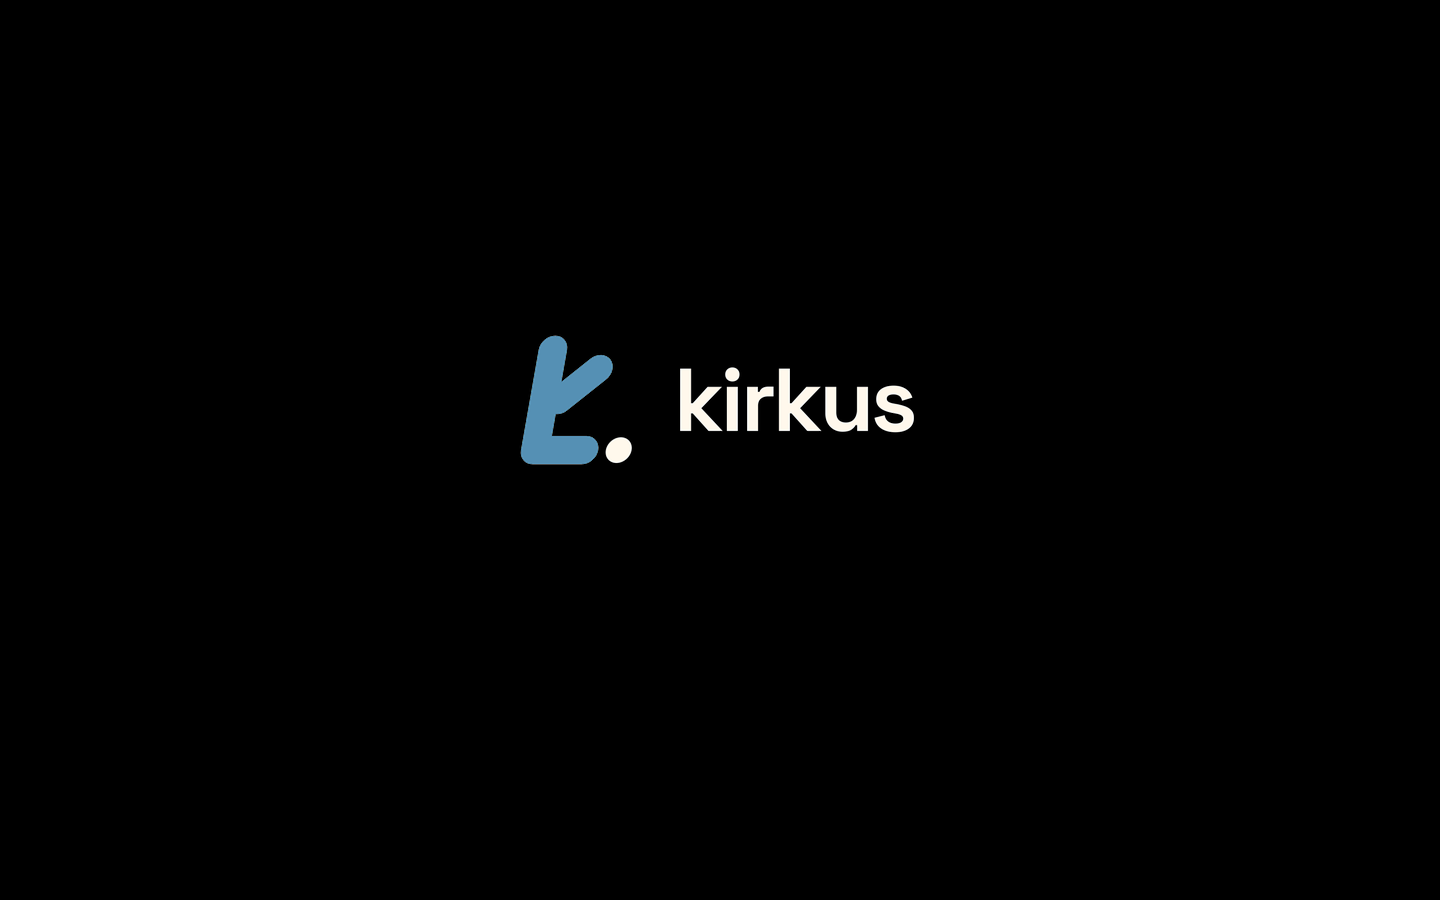
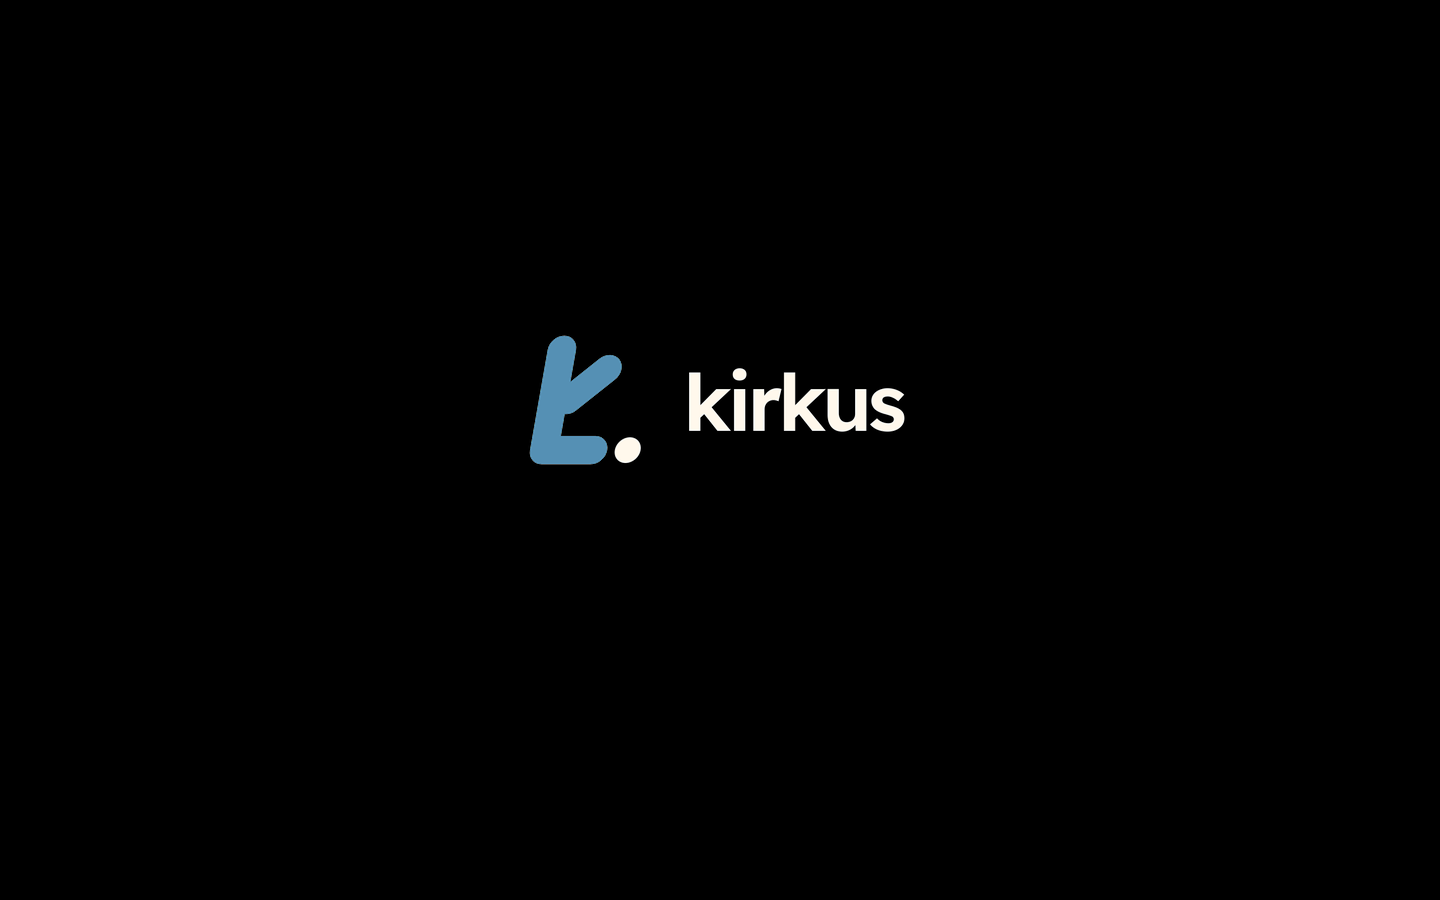
New wordmark: Lexend SemiBold
Regenerated the lockup for GRUB, the boot splash, the login screen, the
Plasma splash and the live USB. make-lockup.py now takes any font, weight
and spacing; the chosen settings are in branding/build/wordmark.txt.

Claude-Session: https://claude.ai/code/session_01L5eKN7UTBKTLGMDgDJHDBu

Changed region(s): [[0.4688, 0.4044, 0.6562, 0.4978], [0.3438, 0.3733, 0.4375, 0.5289]]

diff --git a/branding/tools/make-lockup.py b/branding/tools/make-lockup.py
@@ -1,21 +1,36 @@
 #!/usr/bin/env python3
 """Build the kirkus lockup (mark + "kirkus" wordmark) and its screen-size layers.
 
-usage: make-lockup.py SPACE_GROTESK_VARIABLE_TTF BRANDING_DIR
+usage: make-lockup.py FONT.ttf BRANDING_DIR [--weight W] [--track EM] [--height PX] [--max-width PX]
+                      [--out DIR]
 
-Takes the mark (the K and its dot) from branding/build/mark-src.png and dot-src.png, sets
-"kirkus" in Space Grotesk (wght 680, 208px, -8px tracking: the settings that reproduce the
-original "kirk" artwork), and writes:
-  build/lockup.png, build/lockup-nodot.png            full size, 308px tall
-  build/screen-lockup.png, screen-lockup-nodot.png,   132px tall, what every screen draws
-  build/screen-dot.png                                (dot layer is the same size as the lockup)
+Takes the mark (the K and its dot) from branding/build/mark-src.png and dot-src.png, sets "kirkus"
+in the given font and writes, to BRANDING_DIR/build (or --out):
+  lockup.png, lockup-nodot.png                      full size, 308px tall
+  screen-lockup.png, screen-lockup-nodot.png,       132px tall, what every screen draws
+  screen-dot.png                                    (dot layer is the same size as the lockup)
+
+--weight   for variable fonts (default 680)
+--track    letter spacing in em, negative is tighter (default -0.04)
+--height   height of the word's ink, ascender to baseline (default 148, as the original "kirk")
+--max-width  the word is scaled down to fit this width if needed (default 640)
 """
-import sys, os
+import sys, os, argparse
 import numpy as np
 from PIL import Image, ImageDraw, ImageFont
 
-font_path, root = sys.argv[1], sys.argv[2]
+ap = argparse.ArgumentParser()
+ap.add_argument("font"); ap.add_argument("root")
+ap.add_argument("--weight", type=float, default=680)
+ap.add_argument("--track", type=float, default=-0.04)
+ap.add_argument("--height", type=int, default=148)
+ap.add_argument("--max-width", type=int, default=640)
+ap.add_argument("--out")
+a = ap.parse_args()
+font_path, root = a.font, a.root
 b = os.path.join(root, "build")
+out = a.out or b
+os.makedirs(out, exist_ok=True)
 CREAM = (0xff, 0xf8, 0xec)
 H, SCREEN_H = 308, 132                     # 308 * 3/7 = 132
 GAP_X = 376                                # where the wordmark starts (as in the original)
@@ -24,19 +39,31 @@ mark = Image.open(os.path.join(b, "mark-src.png")).convert("RGBA")       # 330 x
 dot = Image.open(os.path.join(b, "dot-src.png")).convert("RGBA")
 dx, dy = (int(v) for v in open(os.path.join(b, "dot-offset.txt")).read().split())
 
-# ---- wordmark coverage, 4x supersampled ----
-S = 4
-f = ImageFont.truetype(font_path, 208 * S)
-f.set_variation_by_axes([680])
-cov = Image.new("L", (1400 * S, 400 * S))
-d = ImageDraw.Draw(cov)
-x = 20 * S
-for ch in "kirkus":
-    d.text((x, 20 * S), ch, font=f, fill=255)
-    x += f.getlength(ch) - 8 * S
-c = np.array(cov)
-ys, xs = np.nonzero(c > 0)
-c = c[ys.min():ys.max() + 1, xs.min():xs.max() + 1]
+S = 4                                      # 4x supersampling
+
+def ink(size):
+    """'kirkus' set at size (supersampled px); returns the cropped coverage array."""
+    f = ImageFont.truetype(font_path, int(size))
+    try:
+        axes = f.get_variation_axes()
+        f.set_variation_by_axes([min(max(a.weight, ax["minimum"]), ax["maximum"]) if i == 0
+                                 else ax["default"] for i, ax in enumerate(axes)])
+    except (OSError, AttributeError):
+        pass                               # not a variable font
+    cov = Image.new("L", (int(size * 9), int(size * 2)))
+    d = ImageDraw.Draw(cov)
+    x = size * 0.2
+    for ch in "kirkus":
+        d.text((x, size * 0.3), ch, font=f, fill=255)
+        x += f.getlength(ch) + a.track * size
+    c = np.array(cov)
+    ys, xs = np.nonzero(c > 0)
+    return c[ys.min():ys.max() + 1, xs.min():xs.max() + 1]
+
+# pick the size that gives the requested ink height, within the maximum width
+probe = ink(200 * S)
+scale = min(a.height * S / probe.shape[0], a.max_width * S / probe.shape[1])
+c = ink(200 * S * scale)
 tw, th = (c.shape[1] + S - 1) // S, (c.shape[0] + S - 1) // S
 pad = np.zeros((th * S, tw * S), np.uint8)
 pad[:c.shape[0], :c.shape[1]] = c
@@ -79,9 +106,9 @@ def shrink(im):
 
 full, nodot = canvas(True), canvas(False)
 dotonly = canvas(True, with_word=False, with_mark=False)
-full.save(os.path.join(b, "lockup.png"))
-nodot.save(os.path.join(b, "lockup-nodot.png"))
-shrink(full).save(os.path.join(b, "screen-lockup.png"))
-shrink(nodot).save(os.path.join(b, "screen-lockup-nodot.png"))
-shrink(dotonly).save(os.path.join(b, "screen-dot.png"))
+full.save(os.path.join(out, "lockup.png"))
+nodot.save(os.path.join(out, "lockup-nodot.png"))
+shrink(full).save(os.path.join(out, "screen-lockup.png"))
+shrink(nodot).save(os.path.join(out, "screen-lockup-nodot.png"))
+shrink(dotonly).save(os.path.join(out, "screen-dot.png"))
 print(f"lockup {W}x{H}, screen {sw}x{SCREEN_H}, word {tw}x{th} at ({GAP_X},{top})")
